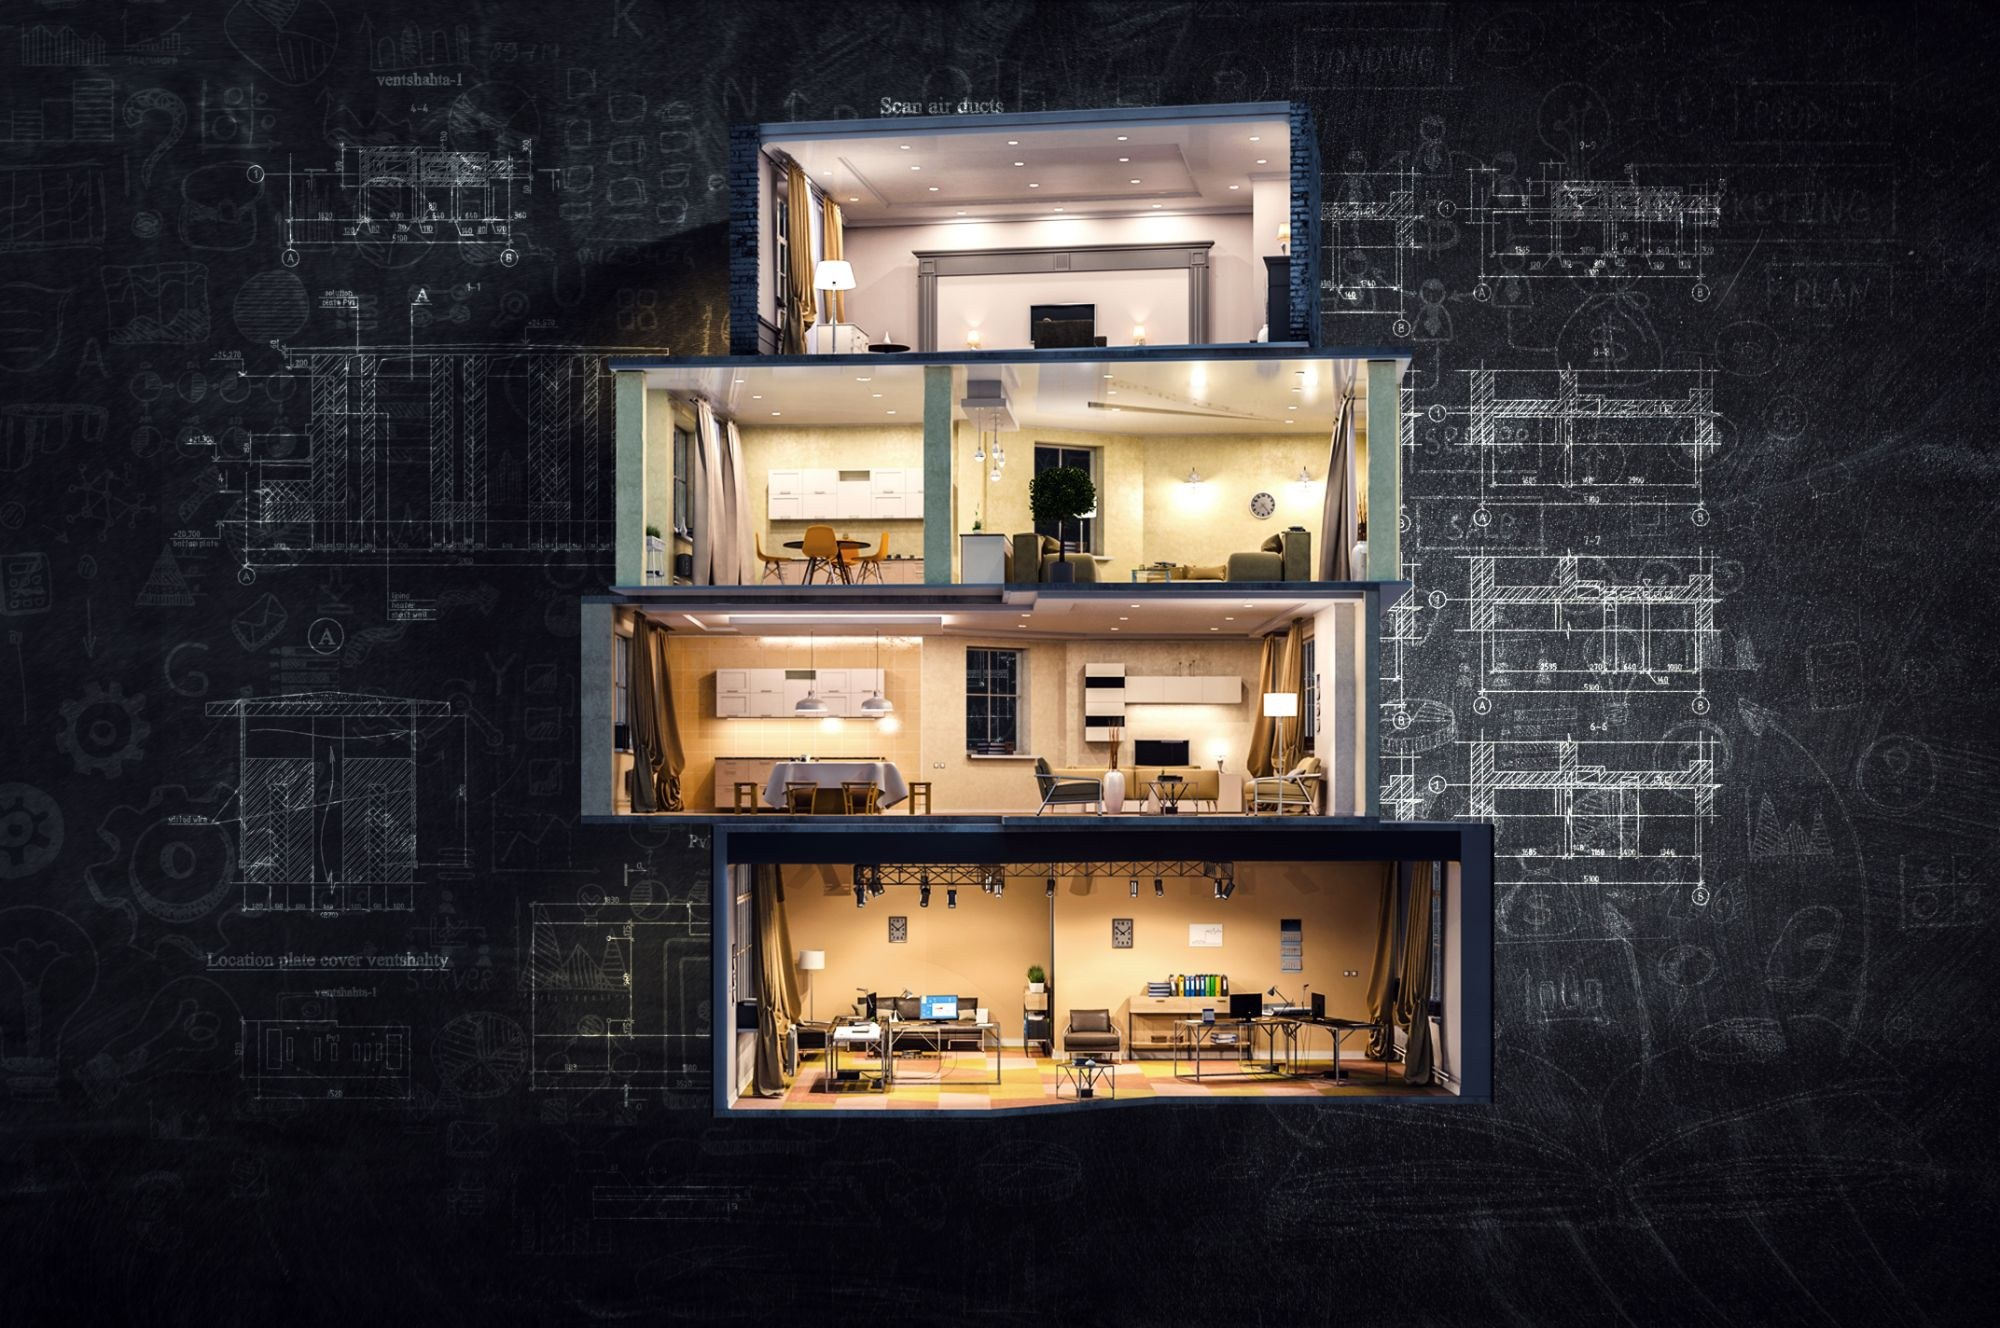
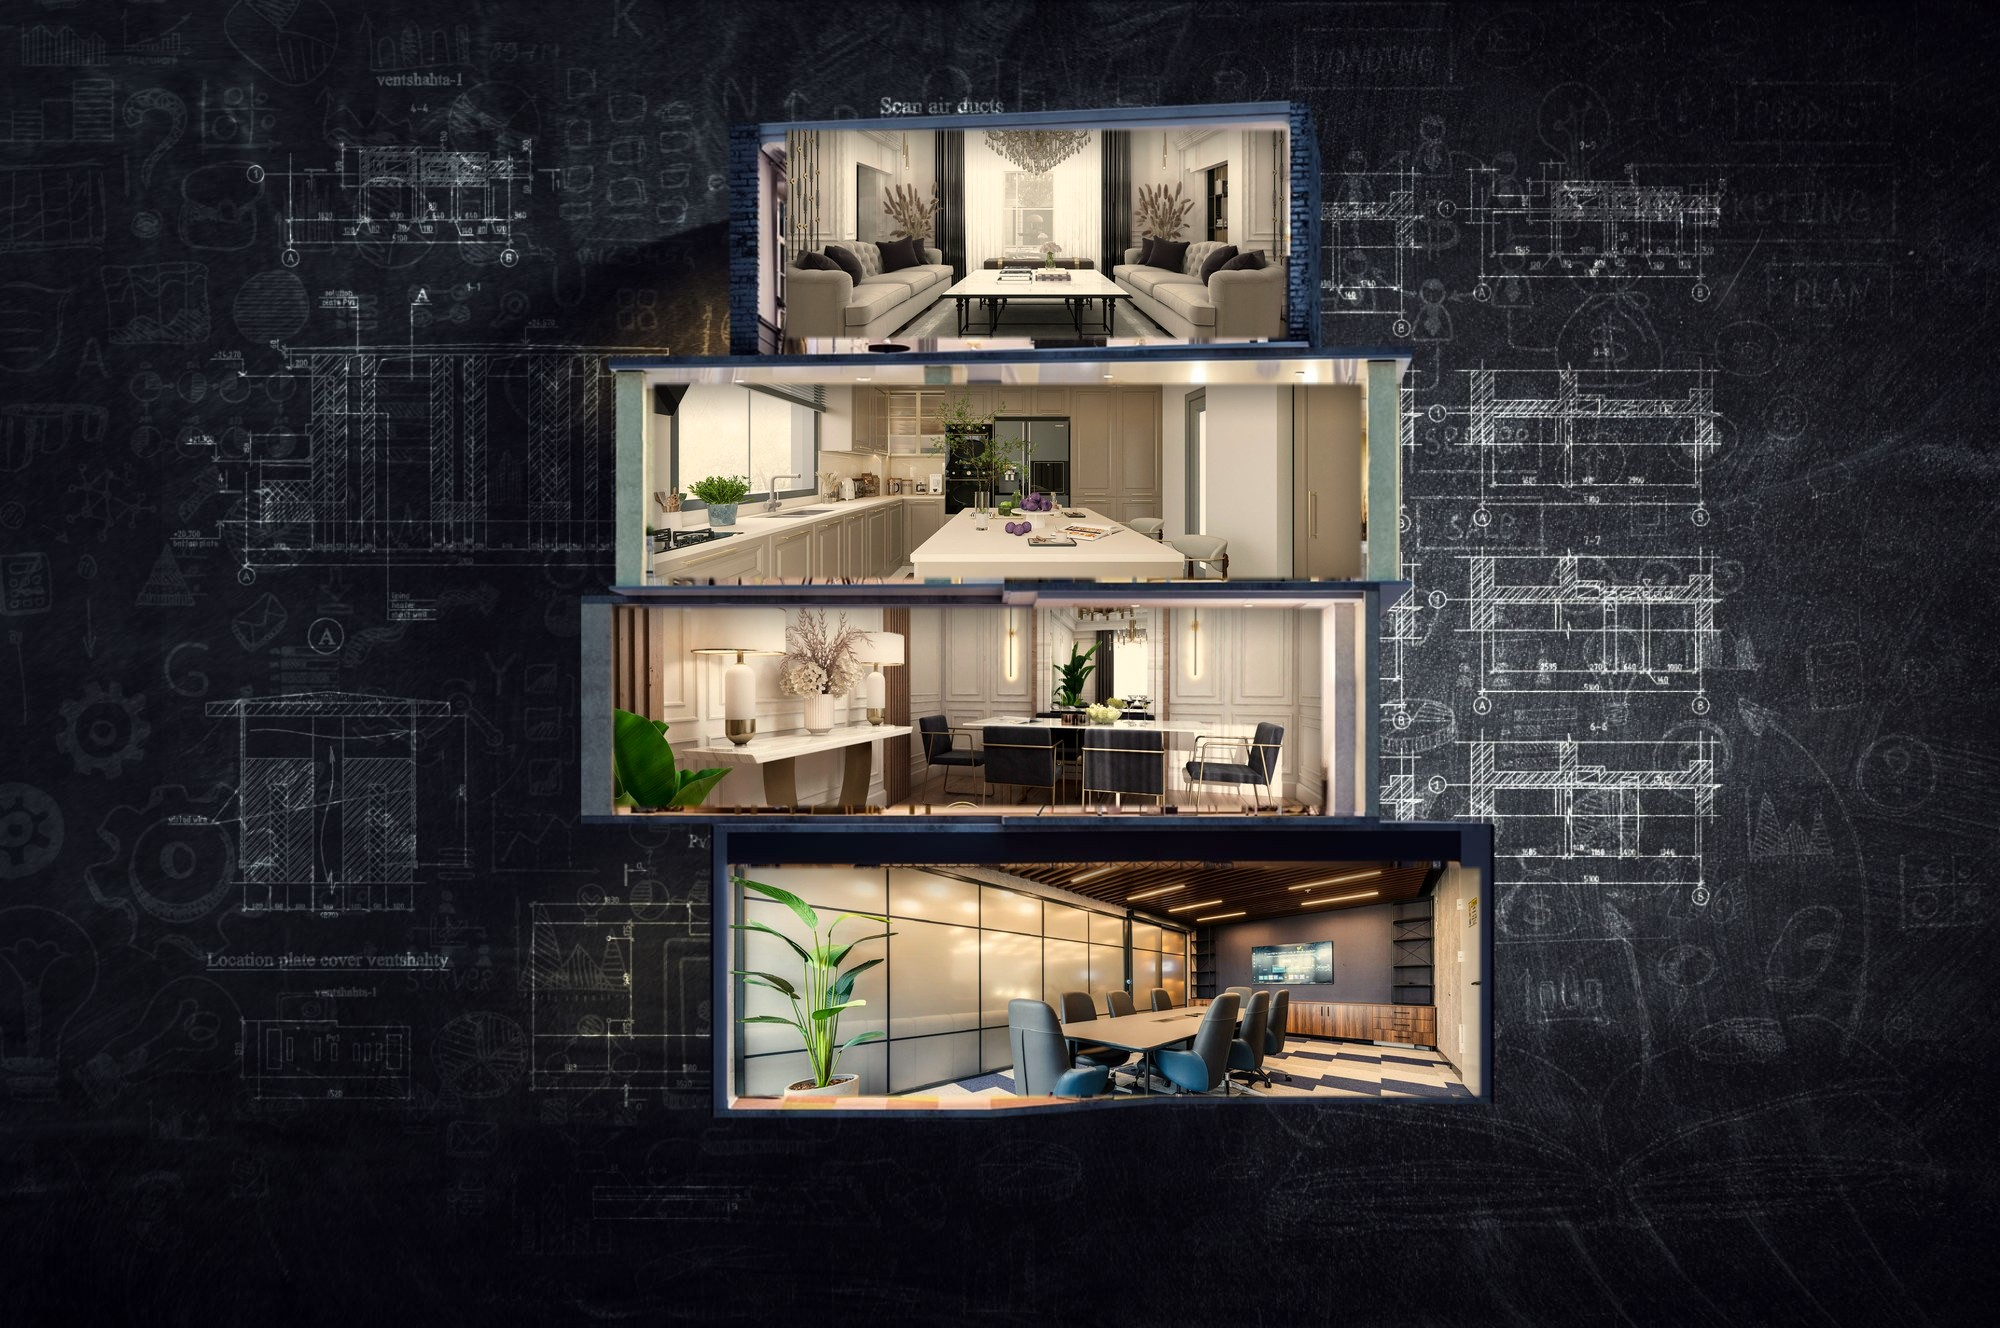
Scene: use real project photos inside the house cutaway render
Claude-Session: https://claude.ai/code/session_01AHckBnDBuQk4hAXAJDHo2P

Changed region(s): [[0.279, 0.0926, 0.682, 0.6175], [0.341, 0.6483, 0.744, 0.8336]]

diff --git a/js/scene.js b/js/scene.js
@@ -17,14 +17,14 @@
 
   // rect: görsel koordinatlarında [x, y, genişlik, yükseklik]; pt: işaret noktası; side: kart tarafı
   const ROOMS = [
-    { k: 'Çatı katı', rect: [735, 105, 590, 255], pt: [836, 282], side: 'L', eyebrow: 'Kat 4 · Çatı katı', title: 'Gece ışığında ana salon',
-      text: 'Gömme spotlar, tavan kornişi ve sıcak abajur ışığıyla akşamları sakin ve davetkar bir yaşam odası.', tags: ['Gömme spot', 'Abajur', 'Altın perde', 'Tavan kornişi'] },
-    { k: 'Mutfak & salon', rect: [605, 352, 810, 240], pt: [1062, 505], side: 'R', eyebrow: 'Kat 3 · Mutfak & salon', title: 'Krem tonlarda açık plan',
-      text: 'Turuncu sandalyeler, sarkıt aydınlatma ve saksı bitkisiyle gün boyu canlı, sıcak bir mutfak ve oturma alanı.', tags: ['Açık mutfak', 'Turuncu sandalye', 'Sarkıt lamba', 'Saksı bitki'] },
-    { k: 'Yemek & oturma', rect: [580, 596, 810, 230], pt: [838, 782], side: 'L', eyebrow: 'Kat 2 · Yemek & oturma', title: 'Bal tonlarında yaşam alanı',
-      text: 'Büyük yemek masası, sarkıt lambalar, koltuk grubu ve zemin lambasıyla aile akşamlarına uygun sıcak bir köşe.', tags: ['Yemek masası', 'Sarkıt lamba', 'Zemin lambası', 'Bal tonu'] },
-    { k: 'Stüdyo', rect: [715, 828, 785, 290], pt: [940, 1010], side: 'R', eyebrow: 'Kat 1 · Stüdyo', title: 'Ray spotlu çalışma stüdyosu',
-      text: 'Endüstriyel ray spotlar, uzun çalışma masaları ve renkli parke zeminle ekibin bir arada çalıştığı ferah alan.', tags: ['Ray spot', 'Parke zemin', 'Çalışma masası', 'Kalın perde'] }
+    { k: 'Çatı katı', rect: [735, 105, 590, 255], pt: [836, 282], side: 'L', eyebrow: 'Kat 4 · Çatı katı', title: 'Avizeli klasik salon',
+      text: 'Avize, simetrik oturma grupları ve açık tonlarla klasik çizgide ferah, davetkar bir salon. Alkent 2000 Z. House projemizden.', tags: ['Avize', 'Oturma grubu', 'Klasik çizgi', 'Açık tonlar'] },
+    { k: 'Mutfak', rect: [605, 352, 810, 240], pt: [1062, 505], side: 'R', eyebrow: 'Kat 3 · Mutfak', title: 'Taş tezgâhlı açık mutfak',
+      text: 'Geniş ada, taş tezgâh ve gömme dolaplarla gün ışığını alan, işlevsel ve şık bir mutfak. Kemer Country Su Evleri projemizden.', tags: ['Açık mutfak', 'Taş tezgâh', 'Ada', 'Gömme dolap'] },
+    { k: 'Yemek alanı', rect: [580, 596, 810, 230], pt: [838, 782], side: 'L', eyebrow: 'Kat 2 · Yemek alanı', title: 'Klasik detaylı yemek alanı',
+      text: 'Panelli duvarlar, geniş yemek masası ve dekoratif detaylarla aile akşamlarına uygun zarif bir alan. Akbatı Koru projemizden.', tags: ['Yemek masası', 'Duvar panelleri', 'Aydınlatma', 'Dekoratif detay'] },
+    { k: 'Ofis', rect: [715, 828, 785, 290], pt: [940, 1010], side: 'R', eyebrow: 'Kat 1 · Ofis', title: 'Ahşap tavanlı toplantı odası',
+      text: 'Cam bölmeler, ahşap tavan detayları ve uzun toplantı masasıyla ekibin bir araya geldiği ferah ofis. Antplato Vend projemizden.', tags: ['Toplantı masası', 'Ahşap tavan', 'Cam bölme', 'Bitki'] }
   ];
   const HOUSE = [560, 90, 950, 1040];
   const KF = [ // [ilerleme, kamera, oda]

diff --git a/index.html b/index.html
@@ -21,7 +21,7 @@
 <section class="scene" id="scene" aria-label="Evin içine yolculuk">
   <div class="scene-pin"><div class="stage">
     <div class="tab-world" id="tabWorld"><img class="tab-photo" src="assets/tablet.jpg" alt="Tabletin ekranına dokunan bir el" width="2000" height="1358" fetchpriority="high"></div>
-    <div class="world" id="world"><img src="assets/house.jpg" alt="Akşam ışığında katları açık gösterilen örnek ev kesiti, arkasında tebeşir mimari çizimler" width="2000" height="1328" fetchpriority="high"></div>
+    <div class="world" id="world"><img src="assets/house.jpg?v=2" alt="Akşam ışığında katları açık gösterilen örnek ev kesiti, arkasında tebeşir mimari çizimler" width="2000" height="1328" fetchpriority="high"></div>
     <div class="tab-world tab-hand-wrap" id="handWrap"><img class="tab-hand" src="assets/tablet-hand.png" alt="" width="700" height="550"></div>
     <div class="scene-shade" id="sceneShade"></div>
     <div class="scene-intro" id="sceneIntro">
